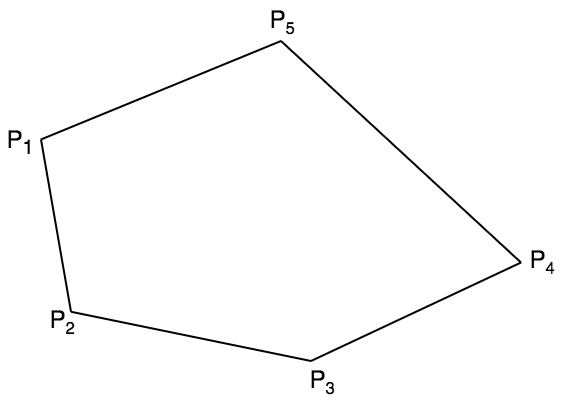
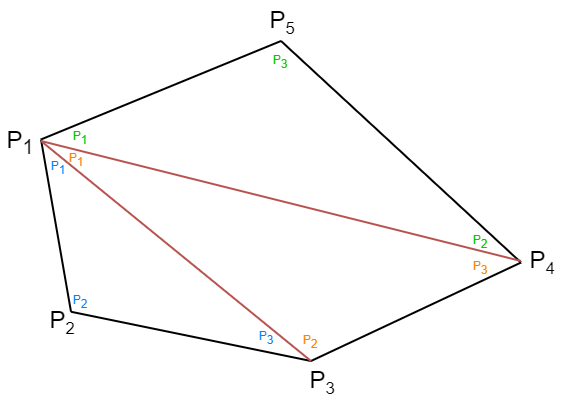
Readme.md updated

diff --git a/README.md b/README.md
@@ -43,23 +43,9 @@ The actual transformation is the compositon of all the transformation matrices i
 
 **"The vertex rule states that each triangle must share two vertices with its neighboring triangles."**
 
-OBJ file format does not guarantee that all the faces are triangles. Because we can assume that the faces are convex and planar, then we can apply the following steps to split the face into triangles.
+OBJ file format does not guarantee that all the faces are triangles. Because we can assume that the faces are convex and planar, then we apply the following steps to split the face into triangles.
 
 ![](./images/obj2stl-Page-1.png)
-
-Find the boundary box:
-
-![](./images/obj2stl-Page-2.png)
-
-The middle of the box will be the new common vertex of all the triangles:
-
-![](./images/obj2stl-Page-3.png)
-
-If we follow the order of vertices as they were defined in the original polygon and we just insert the new coordinate as the last coordinate of the triangles, then we can guarantee that the normal vectors of the triangles will also point to the same direction as the original one did.
-
-The same normal vector can be used for of all the triangles: <br> either the average of the normal vectors of the polygon (if there was any), <br> or the normalized vector pointing to the middle of the bounding box. 
-
-![](./images/obj2stl-Page-4.png)
 
 ## 4. Vertex Sorting
 
